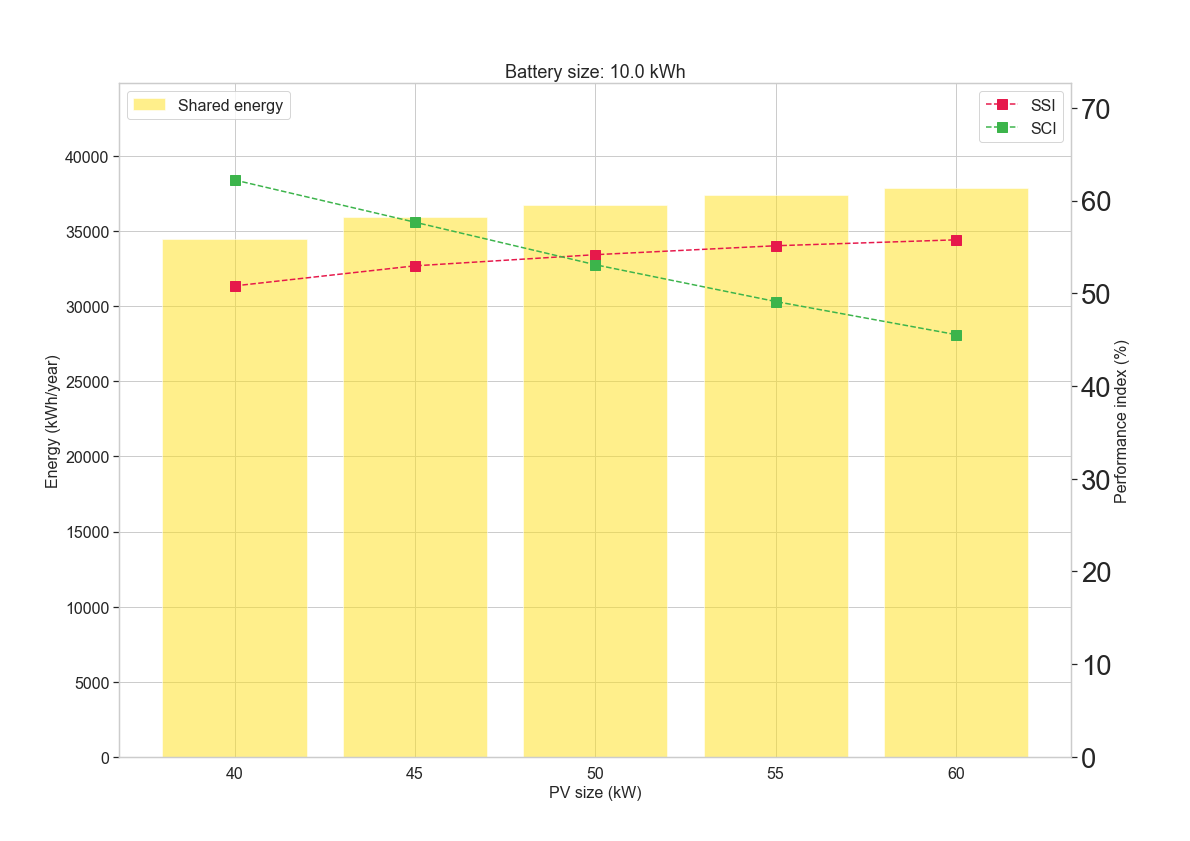
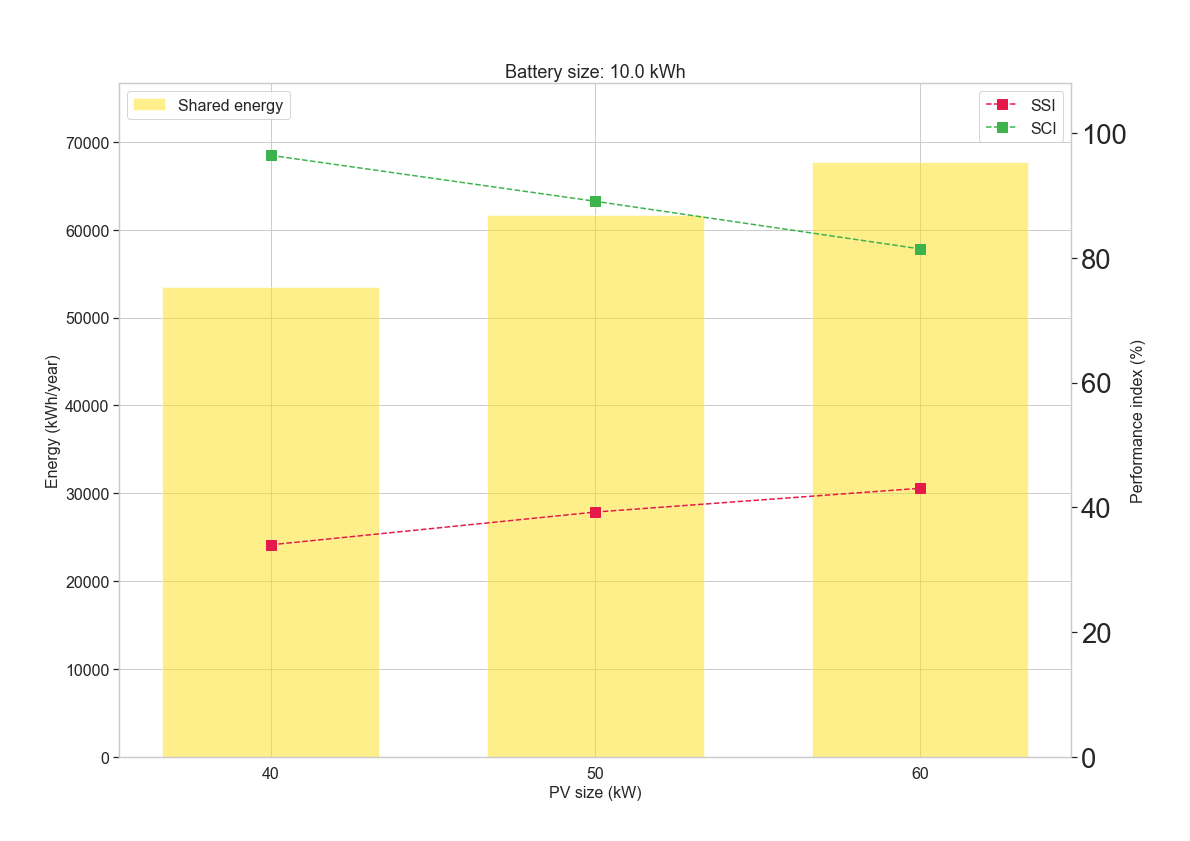
Presentation Rev

diff --git a/main_monticello.py b/main_monticello.py
@@ -67,7 +67,11 @@ power_max = 105.5 if scenario == 1 else 140.5
 # Power yearly expense
 yearly_expense = 19356
 #Producer (investor) benefit share
-beta_prod = 1 if scenario == 1 else 0.75
+beta_prod = 1 if scenario == 1 else 1
+#Beta range for parametric analysis
+betarange = np.linspace(0.5, 1.0, 6)
+betadf = [] #empty list to store betadf rows
+#betadf = pd.DataFrame(columns = ['PV Size (kW)', 'Battery Size (kW)', 'IRR (%)', 'Beta'])
 # Photovoltaic (PV)
 pv_setup, pv_size_range = inp.simulation_setup('PV')
 # Battery 
@@ -321,9 +325,26 @@ for pv_size in pv_size_range:
 
 		# Self-consumption index in a year (%)
 		self_cons_ind_year = shared_energy_year/(pv_production_year)*100
-
+		
+		#initial investment
+		I0 = initial_investment(pv_size, battery_size) 
+		ix = 0
+		#Compute IRR wrt varying beta
+		for betaval in betarange:
+			cflows, energy_sales, contrib, contrib_prod = cash_flows(grid_feed_year/1000,
+															     	shared_energy_year/1000,
+																    pv_size, 
+																	beta = betaval,
+																	n_years = 20,
+																	inf_rate= 0.01
+																	)			
+			irrval = IRR(cflows, I0)*100
+			pcrval = PCR(yearly_expense, contrib_prod, energy_sales, I0, pv_size)
+			riga = [pv_size, battery_size, irrval, pcrval, betaval]
+			betadf.append(riga)
+		
 		#Compute KPI
-		I0 = initial_investment(pv_size, battery_size) #initial investment
+		
 		cflows, energy_sales, contrib, contrib_prod = cash_flows(grid_feed_year/1000,
 														     	shared_energy_year/1000,
 															    pv_size, 
@@ -336,8 +357,15 @@ for pv_size in pv_size_range:
 		cer_irr = IRR(cflows, I0)
 
 		#Compute PCR
-		cer_pcr = PCR(yearly_expense, contrib_prod, energy_sales, I0, power_max)
-
+		"""
+		print("yearly exp ", yearly_expense)
+		print("contib prod", contrib_prod)
+		print("Energy sales ", energy_sales)
+		print("Initial inv", I0)
+		print("power max", power_max)
+		"""
+		cer_pcr = PCR(yearly_expense, contrib_prod, energy_sales, I0, pv_size)
+		
 		#Payback time
 		cer_pbt = PBT(I0, cflows)
 
@@ -612,7 +640,7 @@ if fixed_analysis_flag != 1:
 					legend = 'auto'
 					)
 	plt.title("KPI - Optimal Design")	
-
+	plt.show()
 
 # If the analysis is fixed-size on both the PV and the battery, detailed results (power fluxes)
 # are showed in the figures
@@ -680,6 +708,30 @@ else:
 		filename = 'power_fluxes_{}_{}.png'.format(mm, month)
 		fig.savefig(fpath / filename)
 		# plt.close(fig)
+		plt.show()
+
+#Beta Parametric Analysis
+betadf = pd.DataFrame(betadf, columns = ['PV Size (kW)', 'Battery Size (kW)', 'IRR (%)', 'PCR (%)', 'Beta'])
+
+plt.rc('lines', linewidth=3)
+sns.set_style('darkgrid')
+sns.lineplot(data = betadf,
+				x = 'Beta',
+				y = 'IRR (%)',
+				hue = 'Battery Size (kW)',
+				style = 'PV Size (kW)',
+				palette = 'deep')
+plt.title("Benefit Share Parametric Analysis - IRR")
+plt.show()
+
+sns.lineplot(data = betadf,
+				x = 'Beta',
+				y = 'PCR (%)',
+				hue = 'Battery Size (kW)',
+				style = 'PV Size (kW)',
+				palette = 'crest')
+plt.title("Benefit Share Parametric Analysis - PCR")
+
 
 
 message = '\nThe detailed figures about shared energy have been saved in {}.'.format(fpath)
@@ -687,3 +739,24 @@ print(message)
 
 print('\nEnd. Total time: {0:.2f} s.'.format(toc()))
 plt.show()
+
+
+#IRR vs SSI
+if fixed_analysis_flag != 1:
+	plt.rc('lines', markersize = 21)
+	sns.scatterplot(data = output,
+					x = "SSI  (%)",
+					y = 'IRR (%)',
+					hue = 'Battery size  (kWh)',
+					style = "PV size  (kW)")
+	#plt.title("IRR vs SSI - Caso Studio 1 (No RSA)") 
+	plt.show()
+	
+	#PCR vs SCI
+	plt.rc('lines', markersize = 21)
+	sns.scatterplot(data = output,
+					x = 'SCI  (%)',
+					y = 'PCR Yearly (%)',
+					hue = 'Battery size  (kWh)',
+					style = "PV size  (kW)")
+	#plt.title("PCR vs SCI - Caso Studio 1 (No RSA)") 

diff --git a/kpi_rev.py b/kpi_rev.py
@@ -32,7 +32,7 @@ def initial_investment(pv_size, battery_size, n_batteries = 1, capex_pv = 810, c
 	"""Compute initial investment"""
 	return pv_size*capex_pv + battery_size*capex_batt*n_batteries
 
-def cash_flows(fed_energy, shared_energy, pv_size, beta, PR3 = 42,  CUAF = 8.56 , TP = 110, inf_rate = 0.02, OM = 12.5, n_years = 20):
+def cash_flows(fed_energy, shared_energy, pv_size, beta, PR3 = 42,  CUAF = 8.56 , TP = 110, inf_rate = 0.02, OM = 30, n_years = 20):
 	"""Compute cash flows over 20 years"""
 	prezzi_ritiro = [PR3]*n_years
 	for i in range(1, n_years):
@@ -51,7 +51,7 @@ def cash_flows(fed_energy, shared_energy, pv_size, beta, PR3 = 42,  CUAF = 8.56 
 
 	return cflows, energy_sales, contributions, contrib_prod   
 
-def PCR(yearly_expense, contrib_prod, energy_sales, initial_investment, pv_size, OM = 12.5, n_years = 20):
+def PCR(yearly_expense, contrib_prod, energy_sales, initial_investment, pv_size, OM = 30, n_years = 20):
 	"""Percentage cost reduction"""
 	#Average yearly returns
 	community_returns =(contrib_prod.sum() + energy_sales.sum())/n_years
